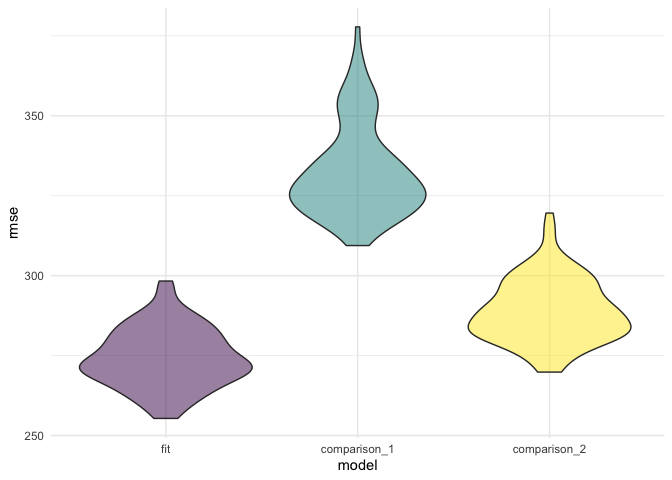
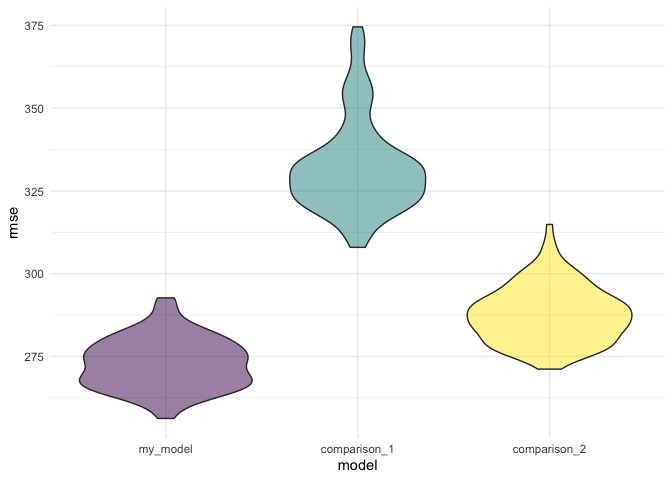
And its done!

diff --git a/p8105_hw6_mk4208.md b/p8105_hw6_mk4208.md
@@ -11,6 +11,7 @@ library(modelr)
 library(mlbench)
 library(caret)
 library(patchwork)
+library(viridis)
 ```
 
 # Problem 1
@@ -33,7 +34,7 @@ skimr::skim(birthweight)
     ##  n obs: 4342 
     ##  n variables: 20 
     ## 
-    ## ── Variable type:factor ────────────────────────────────────────────────────────────────────────
+    ## ── Variable type:factor ──────────────────────────────────────────────────────────────────────────────
     ##  variable missing complete    n n_unique
     ##   babysex       0     4342 4342        2
     ##     frace       0     4342 4342        5
@@ -45,7 +46,7 @@ skimr::skim(birthweight)
     ##                Abs: 4327, Pre: 15, NA: 0   FALSE
     ##  Whi: 2147, Bla: 1909, Pue: 243, Asi: 43   FALSE
     ## 
-    ## ── Variable type:numeric ───────────────────────────────────────────────────────────────────────
+    ## ── Variable type:numeric ─────────────────────────────────────────────────────────────────────────────
     ##  variable missing complete    n      mean     sd     p0     p25     p50
     ##     bhead       0     4342 4342   33.65     1.62  21      33      34   
     ##   blength       0     4342 4342   49.75     2.72  20      48      50   
@@ -81,43 +82,27 @@ skimr::skim(birthweight)
     ##     5      60   ▇▁▁▁▁▁▁▁
     ##    28      89   ▁▁▁▇▇▁▁▁
 
-The following code chunks use the ‘caret’ package and the ‘mlbench’
+The following code chunks use the `caret` package and the `mlbench`
 package to rank feature importance.
 
-  - First, I produce a correlation matrix of the all the numeric
-    variables and set the cut off at 0.7 in order to remove highly
-    correlated.
-
-<!-- end list -->
-
-``` r
-set.seed(10)
-
-nums = map(birthweight, is.numeric) %>% unlist()
-
-correlationMatrix = birthweight %>% select_if(is.numeric) %>% cor() 
-
-highlyCorrelated = correlationMatrix %>% findCorrelation(cutoff = 0.7)
-
-birthweight_no_corr = birthweight %>% select(-highlyCorrelated, "bwt")
-```
-
-  - Second, I do 10 repeat of 10-fold CV for the data and train a
-    generalized linear model for the ‘bwt’ variable. The ‘varImp’
+  - First, I do 10 repeats of 10-fold CV for the data and train a
+    generalized linear model for the `bwt` variable. The `varImp`
     function ranks the importance based on the absolute value of the
     t-statistic for each model parameter used.
 
 <!-- end list -->
 
 ``` r
+set.seed(10)
+
 control = trainControl(method = "cv", number = 10, repeats = 10)
 
-model = train(bwt~., data = birthweight_no_corr, method = "glm", preProcess = "scale", trControl = control)
+model = train(bwt~., data = birthweight, method = "glm", preProcess = "scale", trControl = control)
 
 importance = varImp(model, scale = TRUE)
 ```
 
-  - Third, I plot the imporance of each parameter.
+  - Second, I plot the imporance of each parameter.
 
 <!-- end list -->
 
@@ -126,32 +111,53 @@ ggplot(importance) +
   theme_minimal()
 ```
 
-![](p8105_hw6_mk4208_files/figure-gfm/unnamed-chunk-5-1.png)<!-- -->
+![](p8105_hw6_mk4208_files/figure-gfm/unnamed-chunk-4-1.png)<!-- -->
 
-Based on the above produced plot, I select ‘bhead’, ‘delwt’, ‘gaweeks’,
-‘smoken’, ‘mrace’, ‘babysex’ as my
-predictors.
+Based on the above produced plot, I select `bhead`, `blength`, `delwt`,
+`smoken`, `babysex`, `gaweeks` and `mrace` as my predictors and fit a
+linear
+model.
 
 ``` r
-fit = lm(bwt ~ bhead + delwt + gaweeks + smoken + mrace + babysex, data = birthweight)
+my_model = lm(bwt ~ bhead + blength + delwt + smoken + gaweeks + babysex + mrace, data = birthweight)
 ```
+
+The following code chunk produces a plot of model residuals against
+fitted values using `add_predictions` and `add_residuals`.
 
 ``` r
 birthweight %>% 
-  modelr::add_residuals(fit) %>% 
-  modelr::add_predictions(fit) %>% 
-  ggplot(aes(x = pred, y = resid)) +
-  geom_point() + 
-  theme_minimal()
+  modelr::add_residuals(my_model) %>% 
+  modelr::add_predictions(my_model) %>% 
+  ggplot(aes(x = pred, y = resid, color = resid)) +
+  geom_point(alpha = 0.5) + 
+  scale_color_viridis() +
+  theme_minimal() +
+  theme(legend.position = "none")
 ```
 
-![](p8105_hw6_mk4208_files/figure-gfm/unnamed-chunk-7-1.png)<!-- -->
+![](p8105_hw6_mk4208_files/figure-gfm/unnamed-chunk-6-1.png)<!-- -->
+
+Following code chunks produces two comparision models:
+
+  - `comparison_1` uses length at birth and gestational age as
+    predictors (main effects only)
+
+  - `comparison_2` uses head circumference, length, sex, and all
+    interactions (including the three-way interaction) between these.
+
+<!-- end list -->
 
 ``` r
 comparison_1 = lm(bwt ~ blength + gaweeks, data = birthweight)
 
 comparison_2 = lm(bwt ~ bhead + blength + babysex + bhead*blength + blength*babysex + babysex*bhead + bhead*blength*babysex, data = birthweight) 
+```
 
+Following code chunk compares the 3 models in terms of the
+cross-validated prediction error, using `crossv_mc`.
+
+``` r
 cv_df = 
   crossv_mc(birthweight, 100) %>% 
   mutate(
@@ -159,15 +165,13 @@ cv_df =
     test = map(test, as_tibble))
 
 cv_df = cv_df %>%
-  mutate(fit = map(train, ~lm(bwt ~ bhead + delwt + gaweeks + smoken + mrace + babysex, data = .x)),
+  mutate(my_model = map(train, ~lm(bwt ~ bhead + blength + delwt + smoken + gaweeks + babysex + mrace, data = .x)),
          comparison_1 = map(train, ~lm(bwt ~ blength + gaweeks, data = .x)),
          comparison_2 = map(train, ~lm(bwt ~ bhead + blength + babysex + bhead*blength + blength*babysex + babysex*bhead + bhead*blength*babysex, data = .x))) %>% 
-  mutate(rmse_fit = map2_dbl(fit, test, ~rmse(model = .x, data = .y)),
+  mutate(rmse_my_model = map2_dbl(my_model, test, ~rmse(model = .x, data = .y)),
          rmse_comparison_1 = map2_dbl(comparison_1, test, ~rmse(model = .x, data = .y)),
          rmse_comparison_2 = map2_dbl(comparison_2, test, ~rmse(model = .x, data = .y)))
-```
 
-``` r
 cv_df %>% 
   select(starts_with("rmse")) %>%
   pivot_longer(
@@ -176,13 +180,20 @@ cv_df %>%
     values_to = "rmse", 
     names_prefix = "rmse_") %>%
   mutate(model = fct_inorder(model)) %>%
-  ggplot(aes(x = model, y = rmse)) + 
-  geom_violin()
+  ggplot(aes(x = model, y = rmse, fill = model)) + 
+  geom_violin() + 
+  scale_fill_viridis_d(alpha = 0.5) + 
+  theme_minimal() + 
+  theme(legend.position = "none")
 ```
 
-![](p8105_hw6_mk4208_files/figure-gfm/unnamed-chunk-9-1.png)<!-- -->
+![](p8105_hw6_mk4208_files/figure-gfm/unnamed-chunk-8-1.png)<!-- -->
 
 # Problem 2
+
+For this problem, we’ll use the 2017 Central Park weather data that
+we’ve seen elsewhere. The code chunk below (adapted from the course
+website) will download these data.
 
 ``` r
 weather_df = 
@@ -197,6 +208,9 @@ weather_df =
     tmax = tmax / 10) %>%
   select(name, id, everything())
 ```
+
+The following code chunk uses 5000 bootstrap samples and, for each
+bootstrap sample, produce estimates of r² and log(β0\*β1).
 
 ``` r
 results = weather_df %>% 
@@ -222,6 +236,8 @@ results = weather_df %>%
     ## Warning: unnest() has a new interface. See ?unnest for details.
     ## Try `df %>% unnest(c(`c(glance_intercept)`, .names_repair))`, with `mutate()` if needed
 
+The following code chunk plots the distribution of r² and log(β0 \* β1)
+
 ``` r
 p1 = results %>% 
   ggplot(aes(x = r.squared)) + 
@@ -238,7 +254,37 @@ p2 = results %>%
 p1 + p2
 ```
 
-    ## `stat_bin()` using `bins = 30`. Pick better value with `binwidth`.
-    ## `stat_bin()` using `bins = 30`. Pick better value with `binwidth`.
+![](p8105_hw6_mk4208_files/figure-gfm/unnamed-chunk-11-1.png)<!-- -->
 
-![](p8105_hw6_mk4208_files/figure-gfm/unnamed-chunk-12-1.png)<!-- -->
+Both the distributions apprear normally distributed. The mean of r² is
+0.9115277 and the median of r² is 0.9117841. The mean of log(β0 \* β1)
+is 2.0126729 and the median of log(β0 \* β1) is 2.0130705.
+
+-----
+
+The following tables give the 2.5% and 97.5% quantiles for the r² and
+log(β0 \* β1) for the 95% confidence interval.
+
+``` r
+results %>% 
+  pull(r.squared) %>% 
+  quantile(c(0.025, 0.975)) %>% 
+  knitr::kable(col.names = "R-Squared")
+```
+
+|       | R-Squared |
+| ----- | --------: |
+| 2.5%  | 0.8943607 |
+| 97.5% | 0.9274472 |
+
+``` r
+results %>% 
+  pull(log_b0_b1) %>% 
+  quantile(c(0.025, 0.975)) %>% 
+  knitr::kable(col.names = "Log(B0*B1)")
+```
+
+|       | Log(B0\*B1) |
+| ----- | ----------: |
+| 2.5%  |    1.965044 |
+| 97.5% |    2.057463 |
